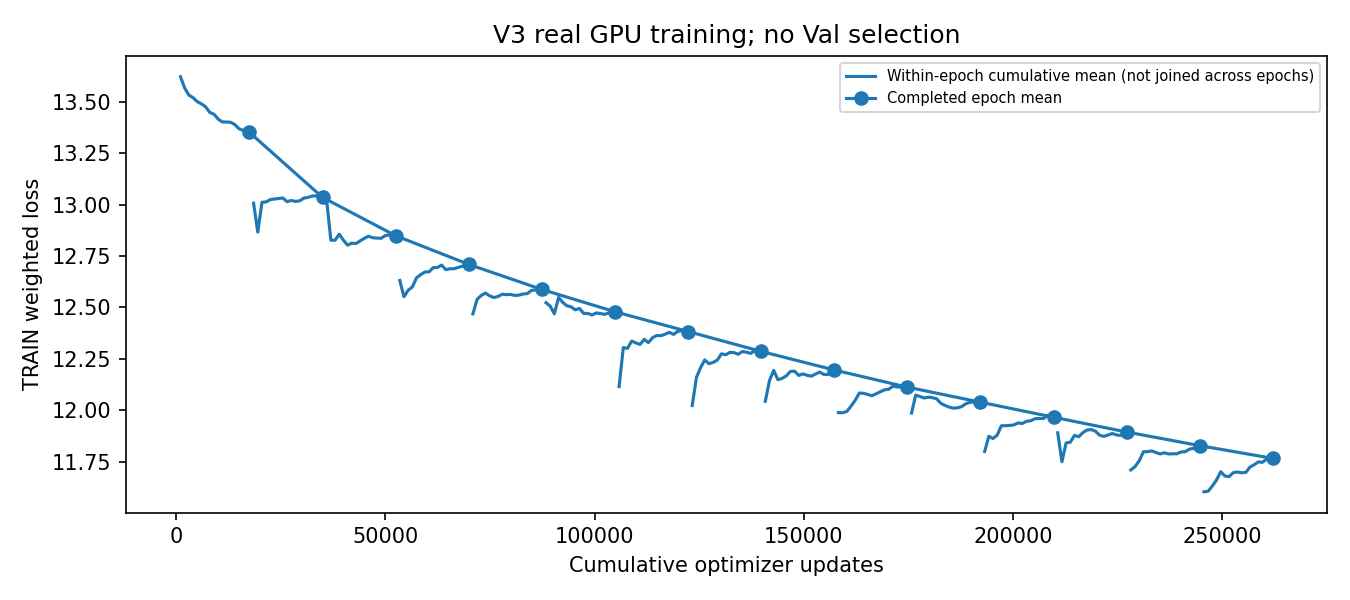
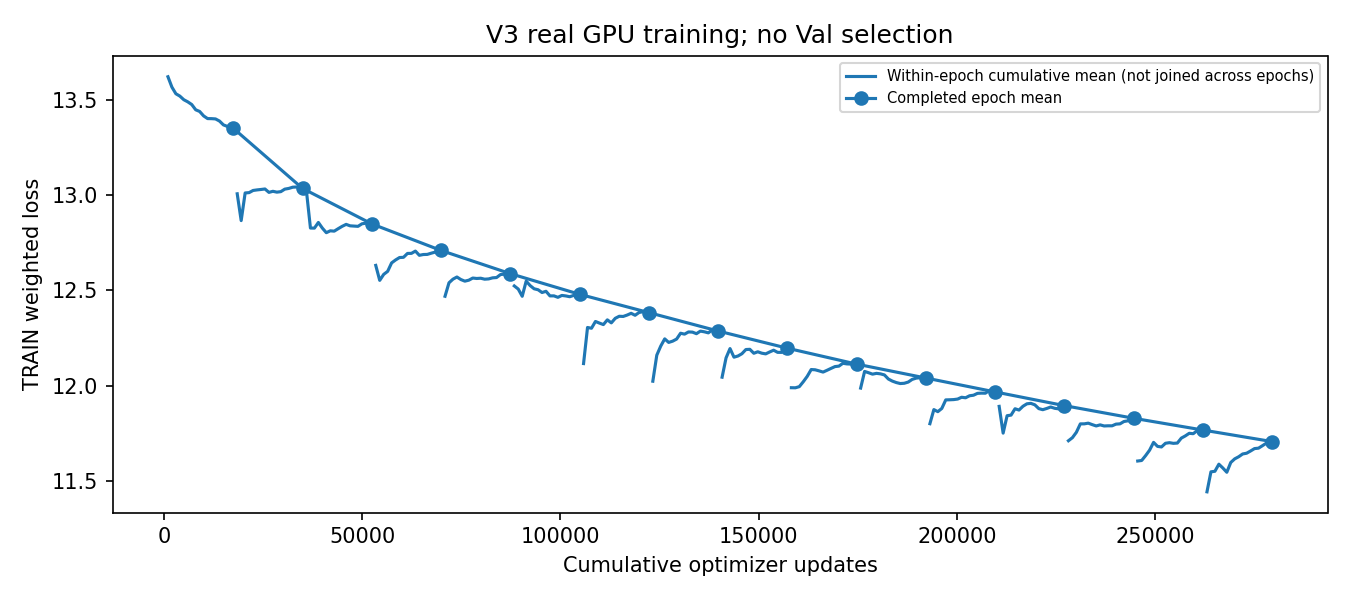
reports(v3): record sixteenth epoch within fixed training budget

diff --git a/reports/unified_pgvb/v3_full_training/REPORT_zh.md b/reports/unified_pgvb/v3_full_training/REPORT_zh.md
@@ -2,7 +2,7 @@
 
 完整TRAIN输入21878条；本阶段拟合17473条、物理目标留出4405条，物理分组重叠0。初始化V2曾使用TRAIN，内部留出不是完全未见泛化。
 
-当前已完成完整Epoch：15；训练结束：False。
+当前已完成完整Epoch：16；训练结束：False。
 
 Geometry和轻量视觉模块训练，BERT/SigLIP2冻结并读取缓存；seed42，原权重保留。四小时累计训练预算，至少三轮后连续两轮相对Loss改善<0.5%提前停止。未修改Stop=0.3、1mm守卫或Horizon。
 
@@ -25,6 +25,7 @@ Geometry和轻量视觉模块训练，BERT/SigLIP2冻结并读取缓存；seed42
 |13|17473|11.894328|765.75|0.144|
 |14|17473|11.827870|772.62|0.144|
 |15|17473|11.766001|778.04|0.144|
+|16|17473|11.705238|775.96|0.144|
 
 ![训练Loss](training_loss.png)
 ![Loss分量](loss_components.png)
